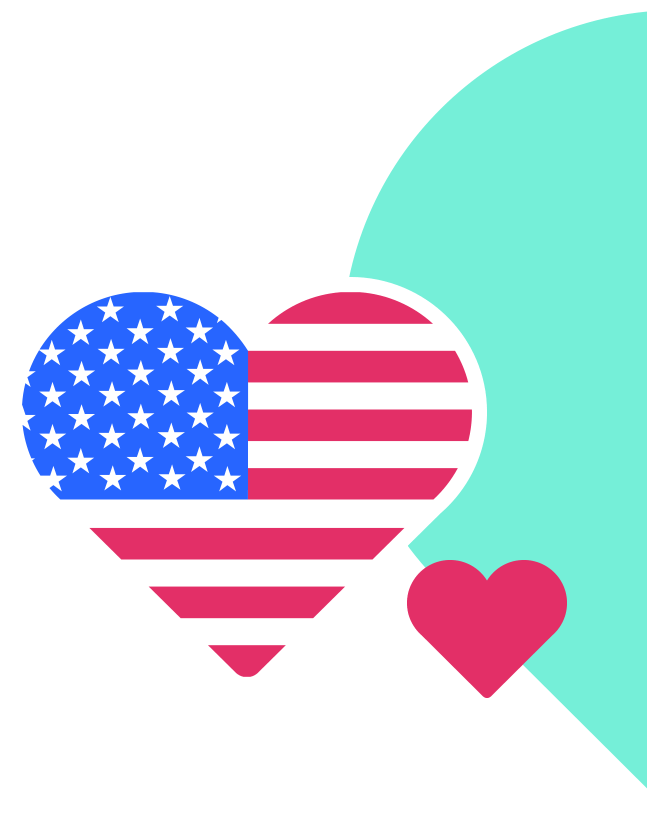
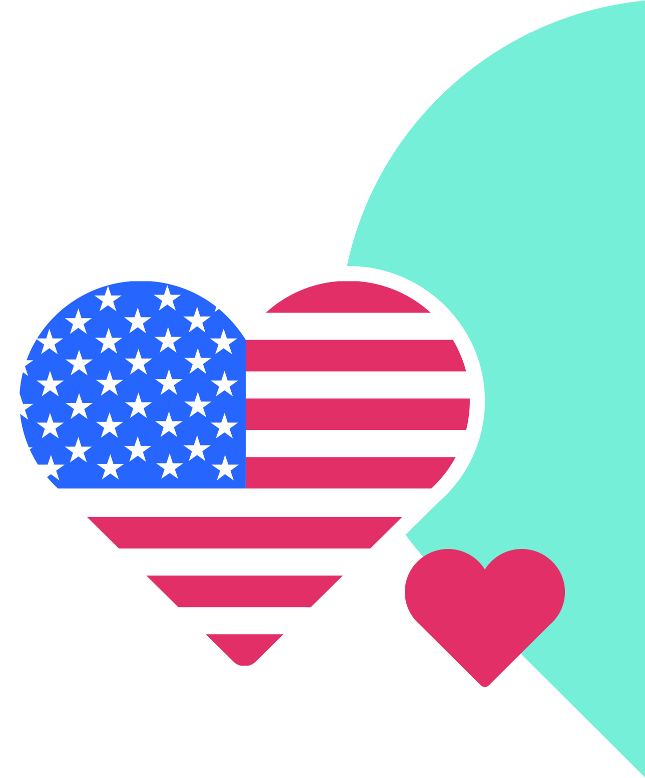
nuevas imagenes con su retina correspondiente

diff --git a/web/assets/css/style.css b/web/assets/css/style.css
@@ -475,6 +475,12 @@ html, body {
   right: 20px;
   bottom: 20px;
 }
+@media only screen and (-webkit-min-device-pixel-ratio: 1.5), only screen and (min--moz-device-pixel-ratio: 1.5), only screen and (min-resolution: 240dpi) {
+  .menu-footer .deco-corazon-footer {
+    background-image: url(../images/sello-somos-re-footer@2x.png);
+    background-size: cover;
+  }
+}
 @media (min-width: 768px) {
   .menu-footer .deco-corazon-footer {
     right: 0;

diff --git a/web/assets/css/sass/footer.scss b/web/assets/css/sass/footer.scss
@@ -129,6 +129,11 @@
         right: 20px;
         bottom: 20px;
 
+        @media only screen and (-webkit-min-device-pixel-ratio: 1.5), only screen and (min--moz-device-pixel-ratio: 1.5), only screen and (min-resolution: 240dpi) {
+            background-image: url(../images/sello-somos-re-footer@2x.png);
+            background-size: cover;
+        }
+
         @media (min-width: $sm) {
             right: 0;
             bottom: 0;
